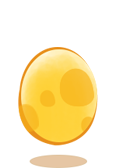
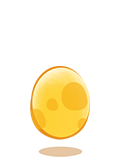
aa

Changed region(s): [[0.1552, 0.2679, 0.8534, 1.0], [0.5431, 0.5952, 0.6724, 0.6548], [0.4655, 0.5952, 0.4914, 0.625]]

diff --git a/index.html b/index.html
@@ -45,12 +45,12 @@
         <div class="plane three"><span class="egga egga3" data-num="3"><figure class="eggb3">&nbsp;</figure></span>
         </div>
        
-		<img src="img/egg1_03.png" style="display: none;">
-        <img src="img/egg2_03.png" style="display: none;">
-        <img src="img/egg3_03.png" style="display: none;">
-        <img src="img/egg4_03.png" style="display: none;">
-        <img src="img/egg5_03.png" style="display: none;">
-        <img src="img/egg6_03.png" style="display: none;">
+		<img src="img/d1021.png" style="display: none;">
+        <img src="img/d1031.png" style="display: none;">
+        <img src="img/d1041.png" style="display: none;">
+        <img src="img/d1051.png" style="display: none;">
+        <img src="img/d1061.png" style="display: none;">
+        <img src="img/d1071.png" style="display: none;">
         
       
     </div>

diff --git a/js/main.js b/js/main.js
@@ -46,8 +46,7 @@ var  playAudio=function(url) {
 var over = 0;
 var jiangxiang = 0;
 function App() {
-
-    }
+ }
 jQuery.extend(App.prototype, jQuery.eventEmitter);
 
 var eggapp = new App();
@@ -86,13 +85,14 @@ $(".egga").one("click", function (e) {
 
     }, 0, function () {
 
-    var i = 1;
+    var i =2;
+        $(a).parent().css("-webkit-animation-name","none");
     var inter = window.setInterval(function () {
-    $(a).css("background-image", "url(img/egg" + i + "_03.png)");
+    $(a).css("background-image", "url(img/d10" + i + "1.png)");
     i++;
-    if (i == 7) {
+    if (i == 8) {
     window.clearInterval(inter);
-	$(a).parent().css("-webkit-animation-name","none");
+
          $(".chui").removeClass("chuiaddw").removeClass("chuiadd");
     }
     }, 100);

diff --git a/css/main.css b/css/main.css
@@ -130,7 +130,7 @@ body {
     background: url(img/bg.jpg) repeat-y center 0;
     -webkit-background-size: 100% auto;
     min-height: 100%;
-	overflow-x:hidden;
+    overflow-x:hidden;
 }
 
 .bg {
@@ -183,10 +183,10 @@ body {
 
 .plane>span {
     position: relative;
-    width: 75px;
-    height: 112px;
+    width: 87px;
+    height: 136px;
     margin-left: -35px;
-    margin-top: -86px;
+    margin-top: -103px;
     display: block;
     background: url(img/2.png) no-repeat center 28px;
     -webkit-background-size: 70% auto;
